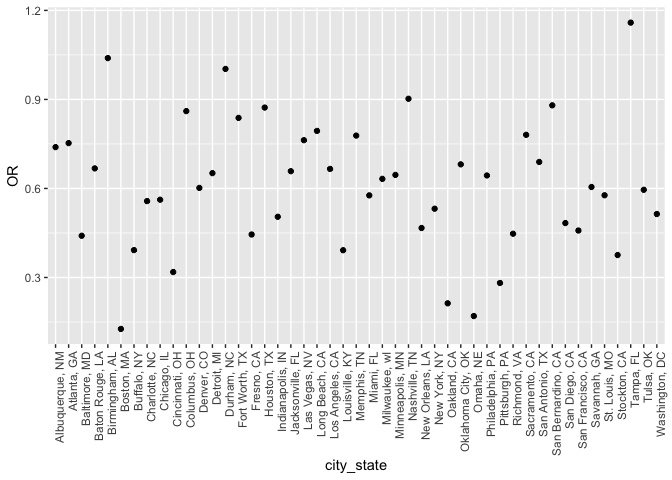
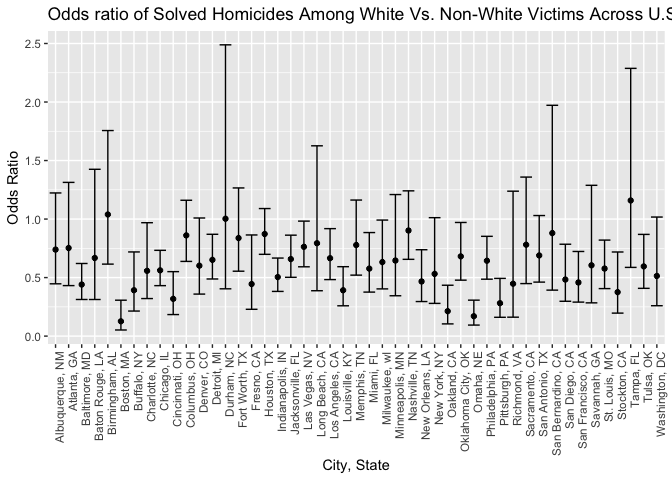
Finished code for problem 2, going back to edit and add descriptions/comments

diff --git a/hw6.md b/hw6.md
@@ -10,7 +10,8 @@ Problem 1
 Create a `city_state` variable (e.g. “Baltimore, MD”), and a binary variable indicating whether the homicide is solved. Omit cities Dallas, TX; Phoenix, AZ; and Kansas City, MO – these don’t report victim race. Also omit Tulsa, AL – this is a data entry mistake. Modifiy victim\_race to have categories white and non-white, with white as the reference category. Be sure that victim\_age is numeric
 
 ``` r
-homicide_df = read_csv("https://raw.githubusercontent.com/washingtonpost/data-homicides/master/homicide-data.csv", na = c("", "NA", "Unknown")) %>%
+# Loaded the dataset, created a binary variable, omitted the specific cities, and modified `victim_race` to be categorical
+homicide = read_csv("https://raw.githubusercontent.com/washingtonpost/data-homicides/master/homicide-data.csv", na = c("", "NA", "Unknown")) %>%
   mutate(
     city_state = str_c(city, state, sep = ", "),
     resolution = case_when(
@@ -42,7 +43,7 @@ homicide_df = read_csv("https://raw.githubusercontent.com/washingtonpost/data-ho
 
 ``` r
 # Checked to see if `victim_age` is numeric
-is.numeric(homicide_df$victim_age)
+is.numeric(homicide$victim_age)
 ```
 
     ## [1] TRUE
@@ -54,7 +55,7 @@ is.numeric(homicide_df$victim_age)
 For the city of Baltimore, MD, use the glm function to fit a logistic regression with resolved vs unresolved as the outcome and victim age, sex and race (as just defined) as predictors. Save the output of glm as an R object; apply the broom::tidy to this object; and obtain the estimate and confidence interval of the adjusted odds ratio for solving homicides comparing non-white victims to white victims keeping all other variables fixed.
 
 ``` r
-baltimore = homicide_df %>%
+baltimore = homicide %>%
   filter(city_state == "Baltimore, MD") %>%
   mutate(solved = as.numeric(resolution == "solved")) %>%
   select(solved, victim_age, victim_race, victim_sex) %>%
@@ -62,34 +63,25 @@ baltimore = homicide_df %>%
   
 baltimore %>% 
   broom::tidy() %>% 
-  mutate(OR = exp(estimate)) %>%
-  select(term, log_OR = estimate, OR, p.value) %>% 
+  mutate(OR = exp(estimate),
+         CI_low = exp(estimate - (1.96 * std.error)),
+         CI_high = exp(estimate + (1.96 * std.error))) %>%
+  select(term, OR, p.value, CI_low, CI_high) %>% 
   knitr::kable(digits = 3) 
 ```
 
-| term                  |  log\_OR|     OR|  p.value|
-|:----------------------|--------:|------:|--------:|
-| (Intercept)           |    1.186|  3.274|    0.000|
-| victim\_age           |   -0.007|  0.993|    0.032|
-| victim\_raceNon-White |   -0.820|  0.441|    0.000|
-| victim\_sexMale       |   -0.888|  0.412|    0.000|
-
-``` r
-confint(baltimore)
-```
-
-    ## Waiting for profiling to be done...
-
-    ##                            2.5 %        97.5 %
-    ## (Intercept)           0.73043530  1.6510015846
-    ## victim_age           -0.01342427 -0.0006274281
-    ## victim_raceNon-White -1.16423133 -0.4785692559
-    ## victim_sexMale       -1.15576002 -0.6218668703
+| term                   |        OR|      p.value|    CI\_low|                                                                                                                                                           CI\_high|
+|:-----------------------|---------:|------------:|----------:|------------------------------------------------------------------------------------------------------------------------------------------------------------------:|
+| (Intercept)            |     3.274|        0.000|      2.067|                                                                                                                                                              5.186|
+| victim\_age            |     0.993|        0.032|      0.987|                                                                                                                                                              0.999|
+| victim\_raceNon-White  |     0.441|        0.000|      0.313|                                                                                                                                                              0.620|
+| victim\_sexMale        |     0.412|        0.000|      0.315|                                                                                                                                                              0.537|
+| The odds of a homicide |  being so|  lved for \`|  Non-white|  `victims is 0.441 times the odds of a homicide being solved for`White\` victims. There is a 95% confidence that the true odds ratio lies between 0.313 and 0.620.|
 
 Now run glm for each of the cities in your dataset, and extract the adjusted odds ratio (and CI) for solving homicides comparing non-white victims to white victims. Do this within a “tidy” pipeline, making use of purrr::map, list columns, and unnest as necessary to create a dataframe with estimated ORs and CIs for each city.
 
 ``` r
-allcities = homicide_df %>%
+allcities = homicide %>%
   mutate(solved = as.numeric(resolution == "solved")) %>%
   group_by(city_state) %>%
   nest() %>%
@@ -98,8 +90,10 @@ allcities = homicide_df %>%
   select(-data, -allglms) %>%
   unnest() %>%
   filter(term == "victim_raceNon-White") %>%
-  mutate(OR = exp(estimate)) %>%
-  select(city_state, term, log_OR = estimate, OR, p.value) 
+  mutate(OR = exp(estimate), 
+         CI_low = exp(estimate - (1.96 * std.error)),
+         CI_high = exp(estimate + (1.96 * std.error))) %>%
+  select(city_state, OR, CI_low, CI_high)
 ```
 
 Create a plot that shows the estimated ORs and CIs for each city. Organize cities according to estimated OR, and comment on the plot.
@@ -108,7 +102,187 @@ Create a plot that shows the estimated ORs and CIs for each city. Organize citie
 allcities %>%
   ggplot(aes(x = city_state, y = OR)) + 
   geom_point() +
-  theme(axis.text.x = element_text(angle = 90, hjust = 1))
+  geom_errorbar(aes(ymin = CI_low, ymax = CI_high)) +
+  theme(axis.text.x = element_text(angle = 90, hjust = 1)) +
+  labs(
+    title = "Odds ratio of Solved Homicides Among White Vs. Non-White Victims Across U.S. Cities",
+    x = "City, State",
+    y = "Odds Ratio")
 ```
 
-![](hw6_files/figure-markdown_github/unnamed-chunk-4-1.png)
+![](hw6_files/figure-markdown_github/unnamed-chunk-4-1.png) From the plot above, across almost all the cities in our analysis the odds of a homicide being solved for `non-white` victims is lower than for `white` victims, with the except of Birmingham, Al, Durham, NC (on the null), and Tampa, Fl. We see a particularly large difference in the odds of solved homicides between non-white and white victim in Bostom, MA, Omaha, NE, and Oakland, CA.
+
+Problem 2
+---------
+
+In this problem, I will analyze data gathered to understand the effects of several variables on a child’s birthweight. This dataset, consists of roughly 4000 children and includes the variables specified in the homework instructions.
+
+Load and clean the data for regression analysis (i.e. convert numeric to factor where appropriate, check for missing data, etc.).
+
+``` r
+children = read_csv("data/birthweight.csv") %>% 
+  mutate(babysex = as.factor(babysex),
+         frace = as.factor(frace), 
+         malform = as.factor(malform),
+         mrace = as.factor(mrace),
+         babysex = recode(babysex, "1" = "Male", "2" = "Female"),
+         malform = recode(malform, "1" = "Present", "0" = "Absent"),
+         frace = recode(frace, "1" = "White", "2" = "Black", "3" = "Asian", "4" = "Puerto Rican", "8" = "Other", "9" = "Unknown"),
+         mrace = recode(mrace, "1" = "White", "2" = "Black", "3" = "Asian", "4" = "Puerto Rican", "8" = "Other"))
+```
+
+    ## Parsed with column specification:
+    ## cols(
+    ##   .default = col_integer(),
+    ##   gaweeks = col_double(),
+    ##   ppbmi = col_double(),
+    ##   smoken = col_double()
+    ## )
+
+    ## See spec(...) for full column specifications.
+
+``` r
+# Check to identify any NAs in the dataset
+sum(is.na(children))
+```
+
+    ## [1] 0
+
+``` r
+View(children)
+```
+
+Propose a regression model for birthweight. This model may be based on a hypothesized structure for the factors that underly birthweight, on a data-driven model-building process, or a combination of the two. Describe your modeling process and show a plot of model residuals against fitted values – use add\_predictions and add\_residuals in making this plot.
+
+``` r
+# Model Fitting
+mod1 = children %>%
+  lm(bwt ~ fincome + momage + blength, data = .)
+
+# Tidying Output
+mod1  %>%
+  broom::glance()
+```
+
+    ## # A tibble: 1 x 11
+    ##   r.squared adj.r.squared sigma statistic p.value    df  logLik    AIC
+    ## *     <dbl>         <dbl> <dbl>     <dbl>   <dbl> <int>   <dbl>  <dbl>
+    ## 1     0.564         0.564  338.     1873.       0     4 -31445. 62900.
+    ## # ... with 3 more variables: BIC <dbl>, deviance <dbl>, df.residual <int>
+
+``` r
+mod1 %>%
+  broom::tidy() %>%
+  select(term, estimate, p.value) %>%
+  knitr::kable(digit = 3)
+```
+
+| term        |   estimate|  p.value|
+|:------------|----------:|--------:|
+| (Intercept) |  -3950.518|        0|
+| fincome     |      1.584|        0|
+| momage      |      6.742|        0|
+| blength     |    137.851|        0|
+
+``` r
+# Diagnostics
+
+children %>% 
+  modelr::add_residuals(mod1) %>%
+  modelr::add_predictions(mod1) %>%
+  ggplot(aes(x = resid, y = pred)) + 
+  geom_point() + 
+  labs(
+    title = "Model residuals Against Fitted Values For Birthweights",
+    x = "Residuals",
+    y = "Predictions")
+```
+
+![](hw6_files/figure-markdown_github/unnamed-chunk-6-1.png)
+
+Compare your model to two others:
+
+One using length at birth and gestational age as predictors (main effects only) One using head circumference, length, sex, and all interactions (including the three-way interaction) between these
+
+Make this comparison in terms of the cross-validated prediction error; use crossv\_mc and functions in purrr as appropriate.
+
+Note that although we expect your model to be reasonable, model building itself is not a main idea of the course and we don’t necessarily expect your model to be “optimal”.
+
+``` r
+cv = crossv_mc(children, 100)
+
+cv %>% pull(train) %>% .[[1]] %>% as_tibble
+```
+
+    ## # A tibble: 3,473 x 20
+    ##    babysex bhead blength   bwt delwt fincome frace gaweeks malform menarche
+    ##    <fct>   <int>   <int> <int> <int>   <int> <fct>   <dbl> <fct>      <int>
+    ##  1 Female     34      51  3629   177      35 White    39.9 Absent        13
+    ##  2 Male       34      48  3062   156      65 Black    25.9 Absent        14
+    ##  3 Female     36      50  3345   148      85 White    39.9 Absent        12
+    ##  4 Male       34      52  3062   157      55 White    40   Absent        14
+    ##  5 Female     34      52  3374   156       5 White    41.6 Absent        13
+    ##  6 Female     33      46  2523   126      96 Black    40.3 Absent        14
+    ##  7 Male       36      52  3515   146      85 White    40.3 Absent        11
+    ##  8 Male       35      51  3459   146      55 White    39.4 Absent        12
+    ##  9 Female     35      48  3175   158      75 White    39.7 Absent        13
+    ## 10 Male       35      51  3544   129      65 White    39.6 Absent        12
+    ## # ... with 3,463 more rows, and 10 more variables: mheight <int>,
+    ## #   momage <int>, mrace <fct>, parity <int>, pnumlbw <int>, pnumsga <int>,
+    ## #   ppbmi <dbl>, ppwt <int>, smoken <dbl>, wtgain <int>
+
+``` r
+cv %>% pull(test) %>% .[[1]] %>% as_tibble
+```
+
+    ## # A tibble: 869 x 20
+    ##    babysex bhead blength   bwt delwt fincome frace gaweeks malform menarche
+    ##    <fct>   <int>   <int> <int> <int>   <int> <fct>   <dbl> <fct>      <int>
+    ##  1 Male       33      52  3374   129      55 White    40.7 Absent        12
+    ##  2 Female     33      49  2778   140       5 White    37.4 Absent        12
+    ##  3 Male       33      50  3459   169      75 Black    40.7 Absent        12
+    ##  4 Female     35      51  3317   130      55 White    43.4 Absent        13
+    ##  5 Male       36      53  3629   147      75 White    41.3 Absent        11
+    ##  6 Female     33      49  2551   120      75 Black    38.1 Absent        11
+    ##  7 Male       34      52  3203   134      25 White    41.1 Absent        14
+    ##  8 Male       36      52  3629   152      45 White    39.6 Absent        11
+    ##  9 Female     34      52  3629   112      25 White    38   Absent        10
+    ## 10 Female     34      51  3005   149      85 White    39.3 Absent        14
+    ## # ... with 859 more rows, and 10 more variables: mheight <int>,
+    ## #   momage <int>, mrace <fct>, parity <int>, pnumlbw <int>, pnumsga <int>,
+    ## #   ppbmi <dbl>, ppwt <int>, smoken <dbl>, wtgain <int>
+
+``` r
+mod1 = lm(bwt ~ fincome + momage + blength, data = children)
+mod2 = lm(bwt ~ blength + gaweeks, data = children)
+mod3 = lm(bwt ~ bhead + blength + babysex + bhead*blength + bhead*babysex + blength*babysex + bhead*blength*babysex, data = children)
+
+children %>% 
+  gather_predictions(mod1, mod2, mod3) %>% 
+  mutate(model = fct_inorder(model)) %>% 
+  ggplot(aes(x = blength, y = bwt)) + 
+  geom_point(alpha = .5) +
+  geom_line(aes(y = pred), color = "red") + 
+  facet_grid(~model)
+```
+
+![](hw6_files/figure-markdown_github/unnamed-chunk-7-1.png)
+
+``` r
+cv = cv %>% 
+  mutate(mod1 = map(train, ~lm(bwt ~ fincome + momage + blength, data = .x)),
+         mod2 = map(train, ~lm(bwt ~ blength + gaweeks, data = .x)),
+         mod3 = map(train, ~lm(bwt ~ bhead + blength + babysex + bhead*blength + bhead*babysex + blength*babysex + bhead*blength*babysex, data = .x)),
+         rmse_mod1 = map2_dbl(mod1, test, ~rmse(model = .x, data = .y)),
+         rmse_mod2 = map2_dbl(mod2, test, ~rmse(model = .x, data = .y)),
+         rmse_mod3 = map2_dbl(mod3, test, ~rmse(model = .x, data = .y)))
+
+cv %>% 
+  select(starts_with("rmse")) %>% 
+  gather(key = model, value = rmse) %>% 
+  mutate(model = str_replace(model, "rmse_", ""),
+         model = fct_inorder(model)) %>% 
+  ggplot(aes(x = model, y = rmse)) + geom_violin()
+```
+
+![](hw6_files/figure-markdown_github/unnamed-chunk-7-2.png)
